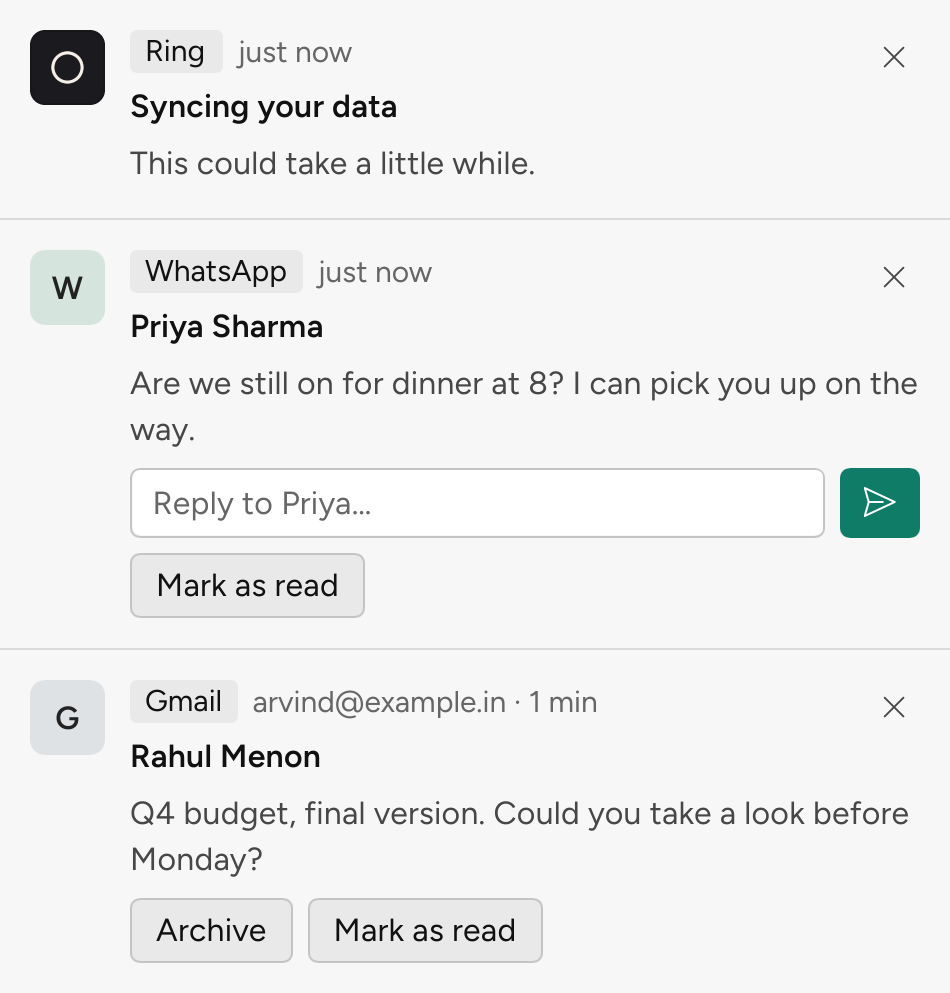
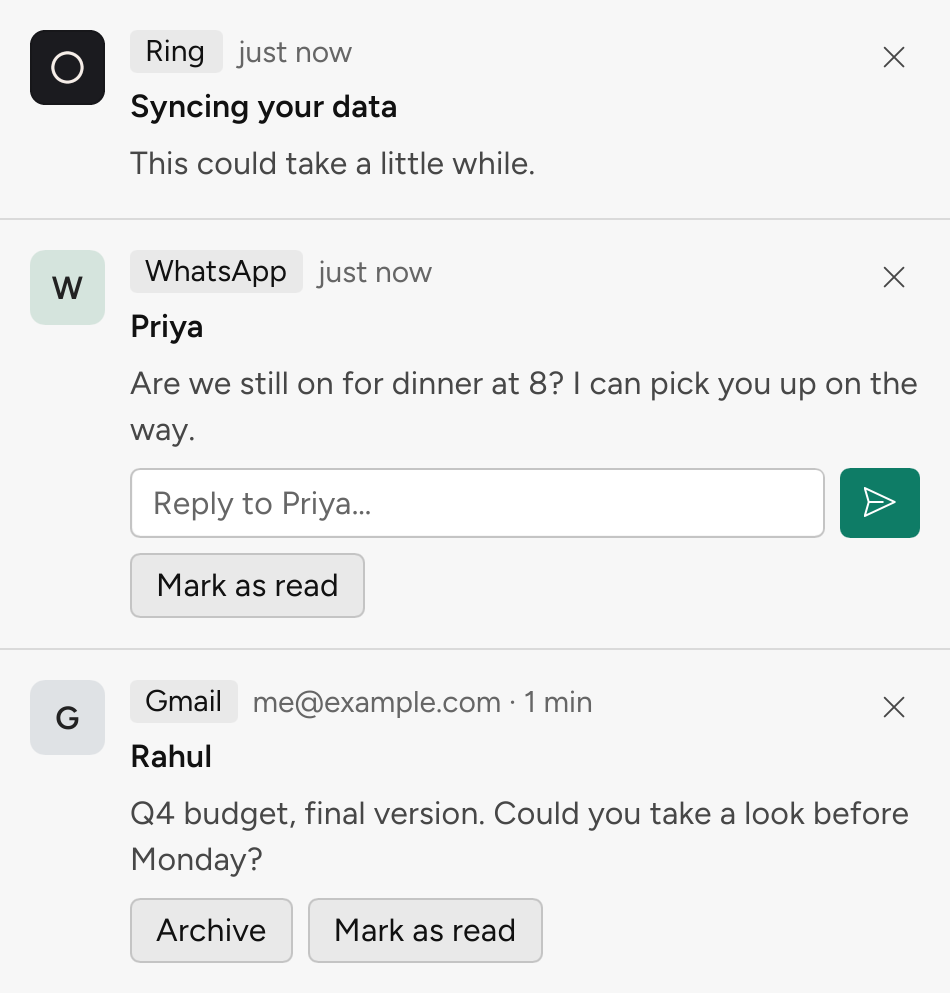
Pictures without personal details: first names only, a generic PC name and everyday items

Changed region(s): [[0.2747, 0.6868, 0.6411, 0.718], [0.2137, 0.7492, 0.3358, 0.7805], [0.2137, 0.3122, 0.3358, 0.3434]]

diff --git a/index.html b/index.html
@@ -153,7 +153,7 @@
       <figure id="show-calls" role="tabpanel" aria-labelledby="tab-calls">
         <picture>
           <source srcset="assets/calls-dark.png" media="(prefers-color-scheme: dark)">
-          <img src="assets/calls-light.png" width="440" height="427" alt="An incoming call from Priya Sharma shown on a PC above other notifications, with the PC's media paused.">
+          <img src="assets/calls-light.png" width="440" height="427" alt="An incoming call from Priya shown on a PC above other notifications, with the PC's media paused.">
         </picture>
       </figure>
       <figure id="show-files" role="tabpanel" aria-labelledby="tab-files">
